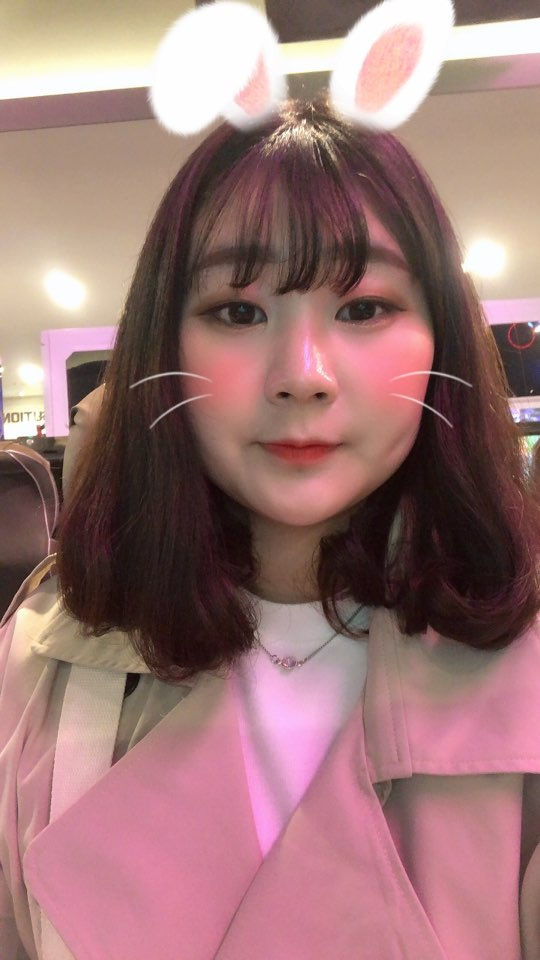
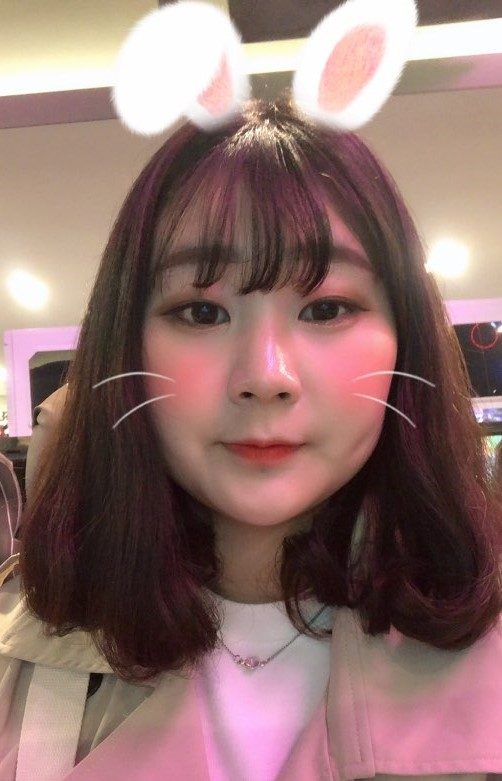
Commit!

diff --git a/about.md b/about.md
@@ -5,7 +5,7 @@ title: About Soobin
 
 <div class="post">
 	<h1 class="pageTitle">About Soobin</h1>
-	<img src="{{ '/assets/img/soobin.jpg' | prepend: site.baseurl }}" style="text-align:center;" alt="">
+	<img src="{{ '/assets/img/soobin1.jpg' | prepend: site.baseurl }}" style="text-align: center;" alt="">
 	<p class="intro">Hello~ I'm Soobin ^^ I'm from Korea. My university is <a href="http://www.dongseo.ac.kr/">Dongseo University</a> 나이는 24세 (만 22세) 입니다. 제 전공은 컴퓨터공학입니다.</p>
 	<p>안녕안뇽</p>
 	<h2>전문 지식</h2>
